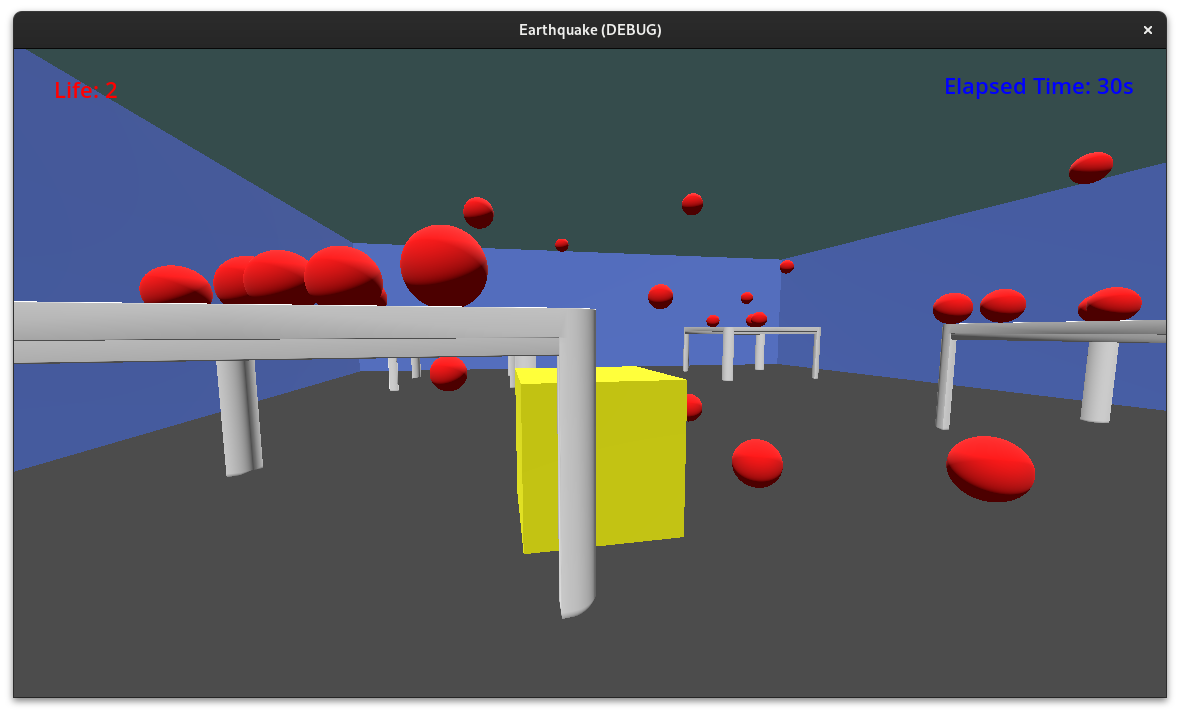
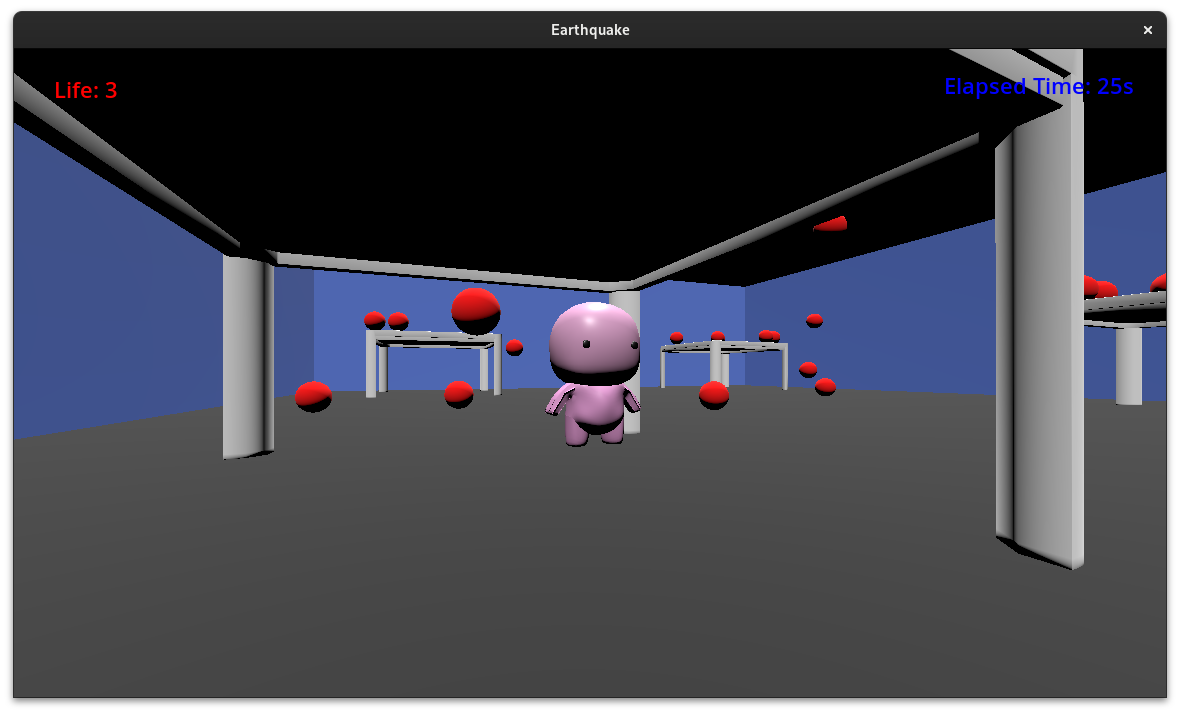
README: Update Rule according to the new player model
The player has been changed to the new model. So, the simplify the Rule.
And, update the screenshot accordingly.

diff --git a/README.md b/README.md
@@ -8,11 +8,10 @@ Earthquake is common in Taiwan.  So, people are taught how to reduce the damage 
 
 ## Rule
 
-1. The yellow box is the player.
-2. The player's life will be decreased if the player is hit by a falling thing.
-3. The tables can resist the falling things.
-4. When the player's life is decreased to zero, it is game over!
-5. The player has 3 lives at beginning.  And, has to survive 60 seconds.
+1. The player's life will be decreased if the player is hit by a falling thing.
+2. The tables can resist the falling things.
+3. When the player's life is decreased to zero, it is game over!
+4. The player has 3 lives at beginning.  And, has to survive 60 seconds.
 
 ## Controls
 
